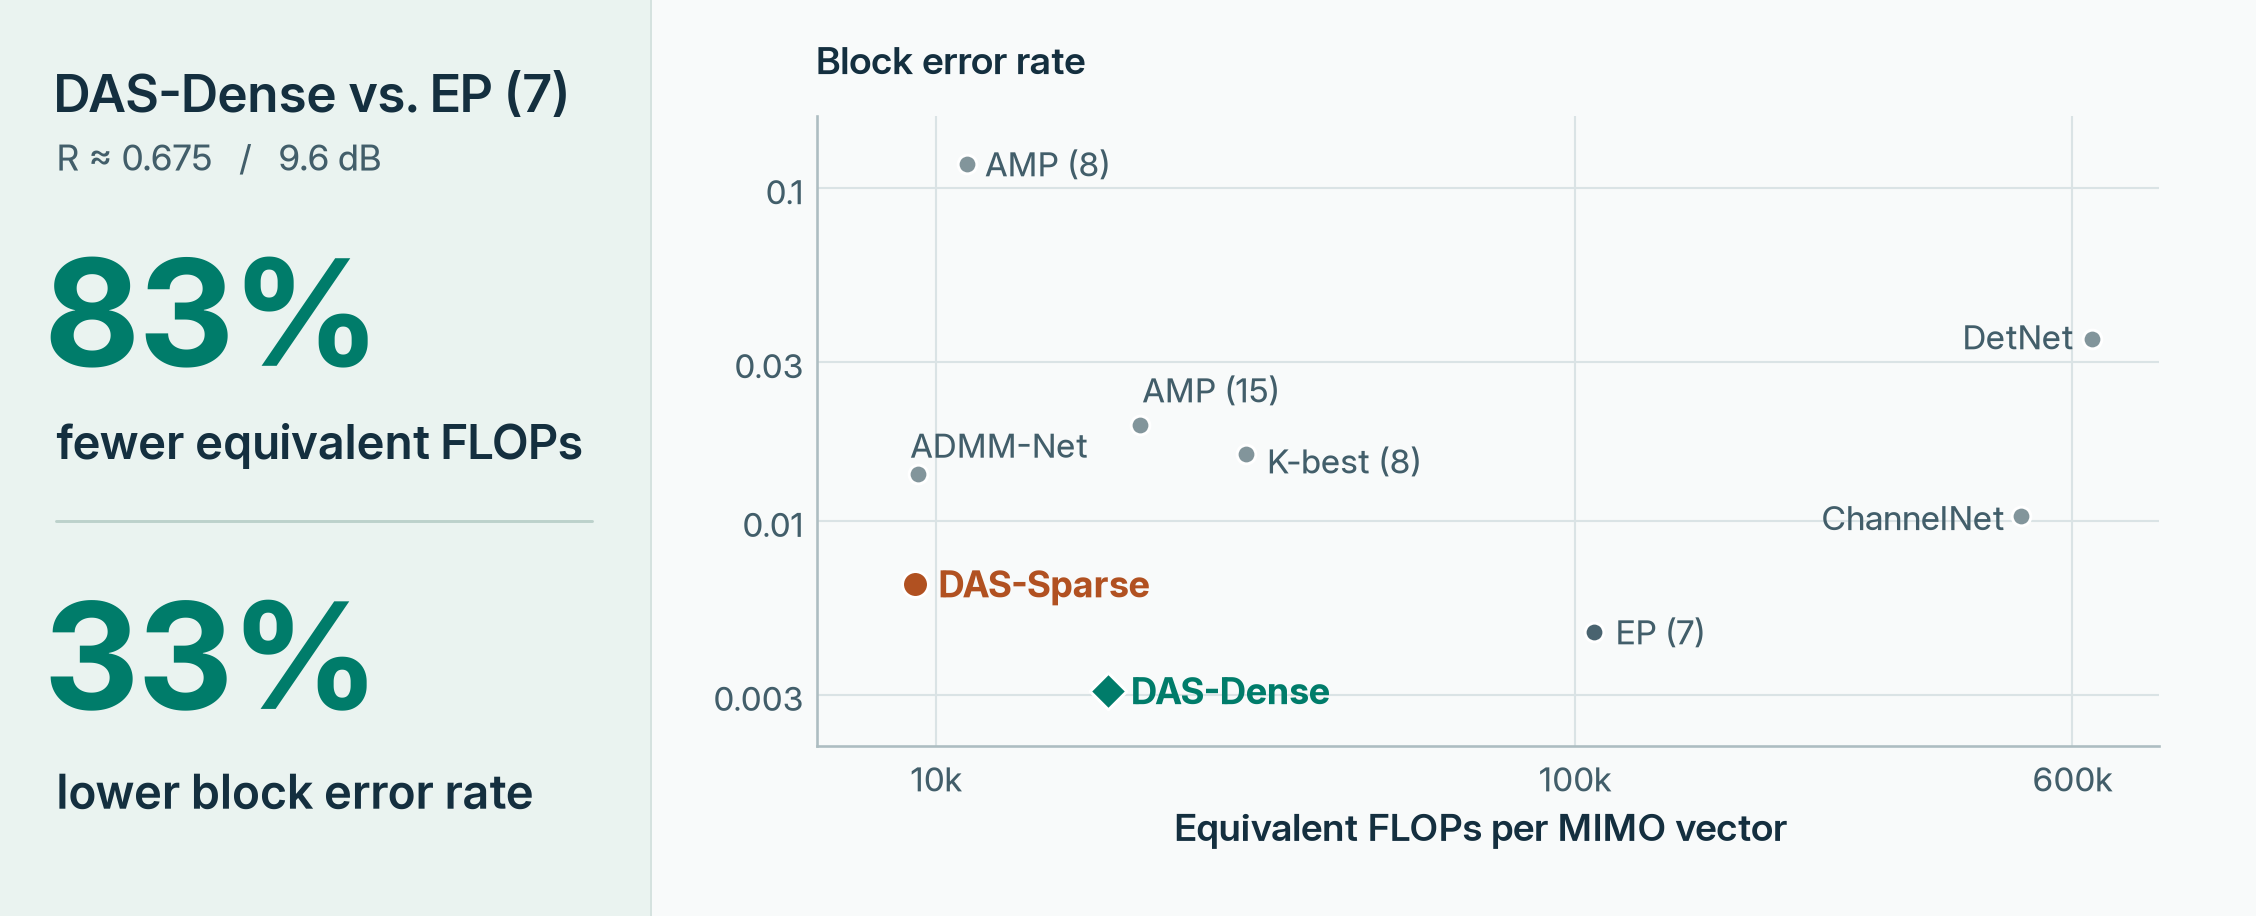
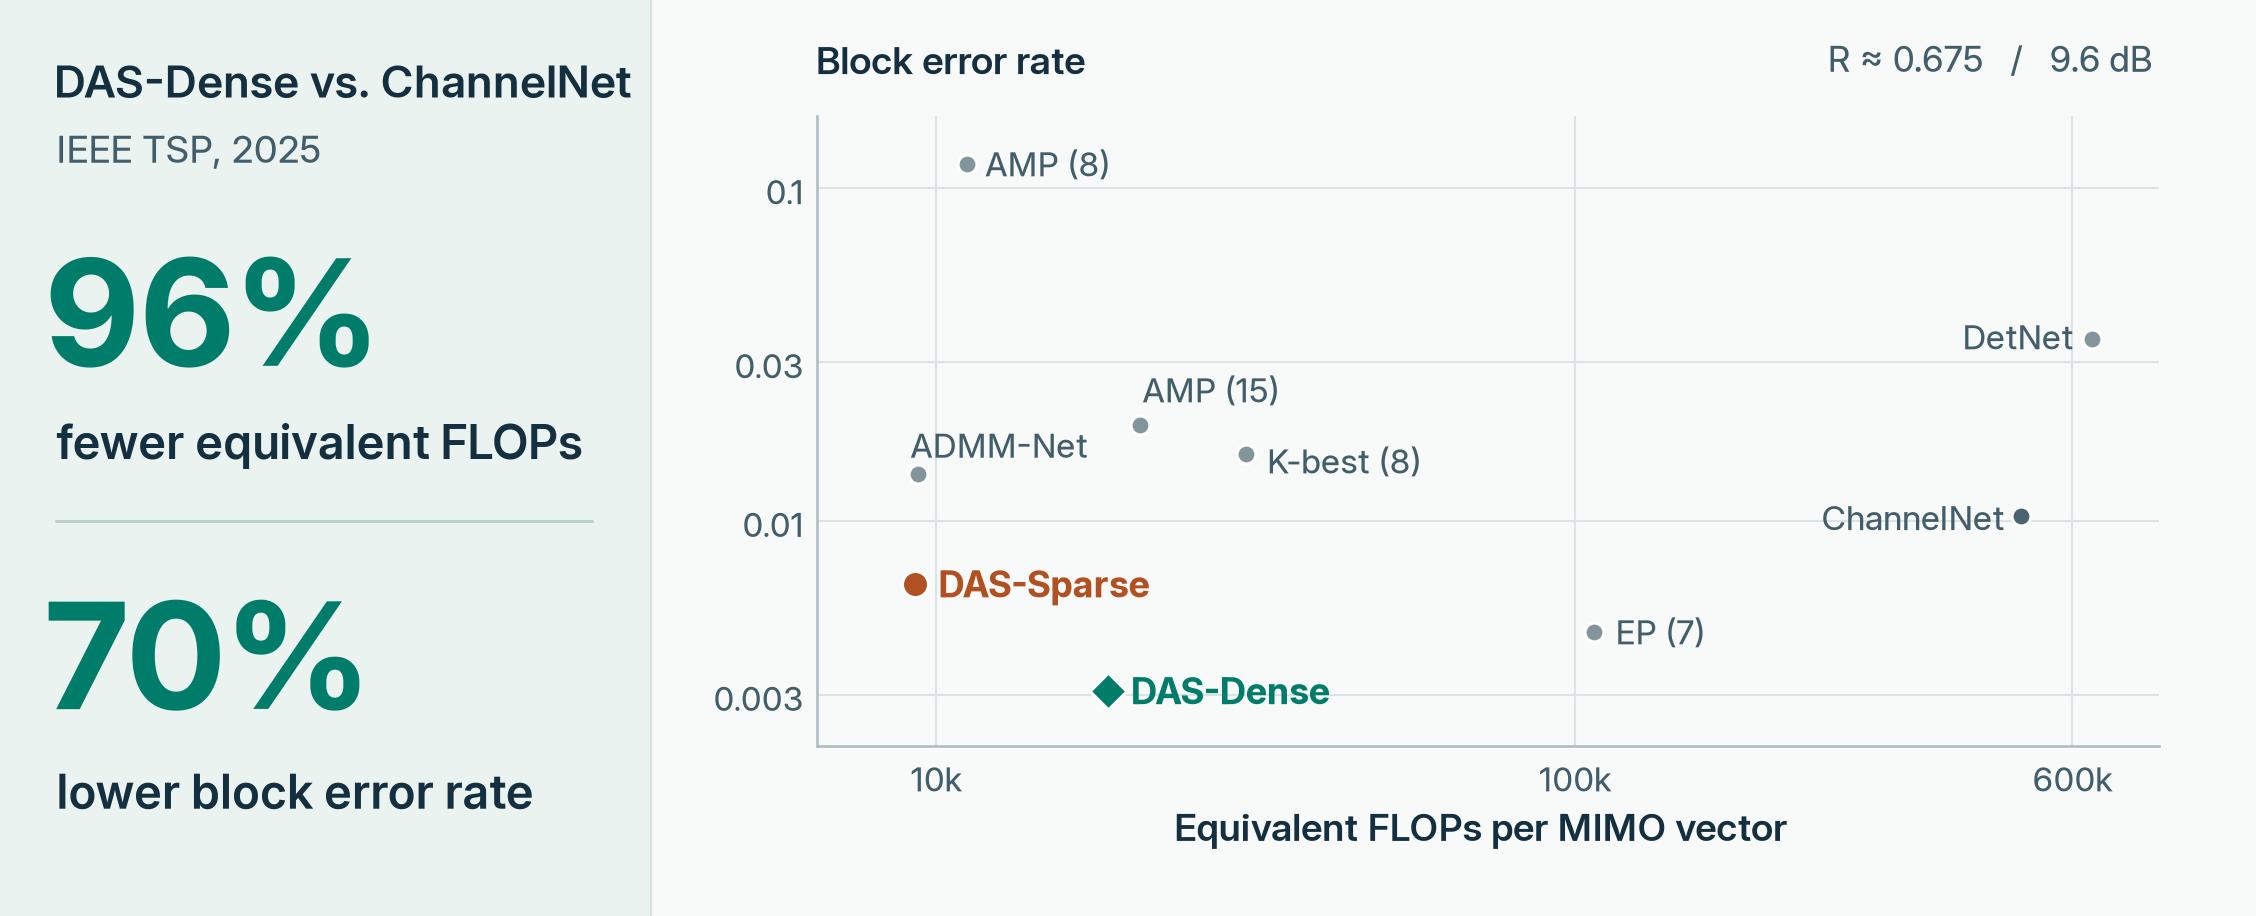
Illustrate cross-iteration reuse and compare DAS detectors with ChannelNet

diff --git a/README.md b/README.md
@@ -1,26 +1,22 @@
 <h1>
 <picture>
   <source media="(max-width: 600px)" srcset="assets/das-mimo-mobile.png">
-  <img src="assets/das-mimo.png" width="100%" alt="DAS-MIMO: Differentiable Algorithm Synthesis for Low-Complexity Coded MIMO Detection. The first learned update shares the matched-filter output between two branches.">
+  <img src="assets/das-mimo.png" width="100%" alt="DAS-MIMO: Differentiable Algorithm Synthesis for Low-Complexity Coded MIMO Detection. An illustrative update combines a denoised current estimate with two earlier estimates.">
 </picture>
 </h1>
 
-**Jiayan Xu, Huayi Zhou, and Chuan Zhang**
-
 DAS-MIMO learns the structure of a MIMO detection algorithm directly from data. Gradient descent selects the algebraic operations in each update, the variables they take as inputs, and the estimates reused from earlier iterations. The learned graph gives explicit detector equations that can be compiled into fused CUDA kernels.
 
-[Run the pretrained detectors](#quick-start) &nbsp; | &nbsp; [Paper results](#paper-results) &nbsp; | &nbsp; [Training and benchmarks](docs/reproduction.md)
+[Run the pretrained detectors](#quick-start) &nbsp; | &nbsp; [Paper results](#paper-results) &nbsp; | &nbsp; [Reproduction Guide](docs/reproduction.md)
 
 ## What did the search learn?
 
-At code rate **0.446**, the first DAS-Sparse update computes the matched-filter output once. One branch uses this vector directly and the other multiplies it by the inverse regularized Gram matrix. The detector combines the branches with learned weights $a$ and $b$ and clips the result.
-
-In the full graph below, 32 of the 36 retained operators perform clipping, scalar denoising or diagonal scaling. Only four perform full matrix–vector products. The capital letters trace 20 intermediate vectors reused across iterations.
+The banner illustrates how an update can combine the current estimate with estimates from two earlier iterations. The graph below shows the complete DAS-Sparse detector learned at code rate **0.446**. Of its 36 retained operators, 32 perform clipping, scalar denoising or diagonal scaling. Only four perform full matrix–vector products. Matching capital letters show where later iterations reuse each of the 20 stored vectors.
 
 [![Complete DAS-Sparse computational graph at code rate 0.446. Matching capital letters connect a stored vector to its uses in later iterations.](assets/sparse-algorithm.png)](assets/sparse-algorithm.png)
 
-<details>
-<summary><strong>View the full DAS-MIMO framework</strong></summary>
+<details open>
+<summary><strong>The DAS-MIMO framework</strong></summary>
 
 A typed graph defines the candidate operations and their compatible inputs. A shared backbone and learned basis components adapt the graph to the code configuration. After training, the compiler prunes inactive operations, removes unused computations, and fuses the remaining expressions into CUDA kernels.
 
@@ -30,25 +26,29 @@ A typed graph defines the candidate operations and their compatible inputs. A sh
 
 ## Paper results
 
-At **$R \approx 0.675$** and **$E_b/N_0 = 9.6$ dB**, DAS-Sparse uses the fewest FLOPs of the nine detectors and achieves one-third the block error rate (BLER) of AMP (15). DAS-Dense achieves the lowest BLER. Compared with EP (7), it reduces BLER from 0.00463 to 0.00308 and equivalent FLOPs per vector from 107.1k to 18.5k.
+At **$R \approx 0.675$** and **$E_b/N_0 = 9.6$ dB**, DAS-Dense achieves the lowest block error rate (BLER) among the nine detectors. Compared with ChannelNet (*IEEE Transactions on Signal Processing*, 2025), it reduces BLER from 0.01038 to **0.00308** and equivalent FLOPs per vector from 498.1k to **18.5k**. DAS-Sparse uses the fewest FLOPs (**9.3k**) and also achieves a lower BLER than ChannelNet (**0.00646**). [ChannelNet paper](https://doi.org/10.1109/TSP.2025.3594197)
 
 <picture>
   <source media="(max-width: 600px)" srcset="assets/cost-and-bler-mobile.png">
-  <img src="assets/cost-and-bler.png" width="100%" alt="At rate 0.675 and 9.6 dB, DAS-Sparse is the leftmost point and DAS-Dense the lowest. Relative to EP (7), DAS-Dense uses 83% fewer equivalent FLOPs and achieves 33% lower BLER.">
+  <img src="assets/cost-and-bler.png" width="100%" alt="At rate 0.675 and 9.6 dB, DAS-Dense uses 96% fewer equivalent FLOPs and achieves 70% lower BLER than ChannelNet (IEEE TSP, 2025). DAS-Sparse has the lowest FLOP count of all nine detectors.">
 </picture>
 
 The comparison uses 16 receive and eight transmit antennas, 16-QAM, 1,024-bit LDPC codewords and perfect channel knowledge. Each channel matrix is reused for 64 receive vectors.
 
-DAS-Sparse achieves the highest GPU throughput among the detectors compared in the paper. The measurement below includes preprocessing on **128 channel matrices**, each reused for **512 receive vectors**.
+On an RTX 4090, DAS-Sparse processes **3.50 billion MIMO vectors/s**, compared with **13.3 million** for ChannelNet, a **264×** throughput advantage. The measurement includes preprocessing for 128 channel matrices, each reused for 512 receive vectors.
 
 <picture>
   <source media="(max-width: 600px)" srcset="assets/throughput-mobile.png">
-  <img src="assets/throughput.png" width="100%" alt="DAS-Sparse processes 3.50 billion MIMO vectors per second on an RTX 4090. AMP (8) reaches 2.17 billion and DAS-Dense reaches 1.97 billion.">
+  <img src="assets/throughput.png" width="100%" alt="On an RTX 4090, DAS-Sparse reaches 264 times the throughput of ChannelNet (IEEE TSP, 2025) at 512 receive vectors per channel. The bars show all nine measured detectors.">
 </picture>
 
-## Quick start
+## Quick Start
 
-The pretrained weights are included in the repository. From a Python 3.10 environment:
+> **[Reproduction Guide →](docs/reproduction.md)**
+>
+> Follow the guide to [generate data and train detectors](docs/reproduction.md#train-a-detector), [evaluate BLER](docs/reproduction.md#evaluate-bler), [export CUDA and count FLOPs](docs/reproduction.md#export-cuda-and-count-flops), or [benchmark GPU throughput](docs/reproduction.md#measure-gpu-throughput).
+
+To evaluate the included pretrained weights, run the following commands in a Python 3.10 environment.
 
 ```bash
 git clone https://github.com/NaLv2004/DAS-MIMO.git
@@ -62,13 +62,11 @@ python evaluate.py --models das_sparse das_dense --rate 0.8 --snr 10.1 --frames 
 | **DAS-Sparse** | 0.3–0.8 | [Sparse](configs/das_sparse.json) | [Weights](checkpoints/das_sparse.pt) |
 | **DAS-Dense** | 0.6–0.8 | [Dense](configs/das_dense.json) | [Weights](checkpoints/das_dense.pt) |
 
-The [reproduction guide](docs/reproduction.md) covers dataset generation, model training, BLER evaluation, CUDA export, FLOP counts and RTX 4090 throughput measurements.
-
 ## Baselines
 
 The repository includes trained [ADMM-Net](checkpoints/admm_net.pt), [DetNet](checkpoints/detnet.pt) and [ChannelNet](checkpoints/channelnet.pt) models, together with [MMSE, AMP, EP and K-best](dasmimo/baselines/classical.py).
 
-<details>
+<details open>
 <summary><strong>Baseline papers and public implementations</strong></summary>
 
 | Detector | Paper | Public implementation |
